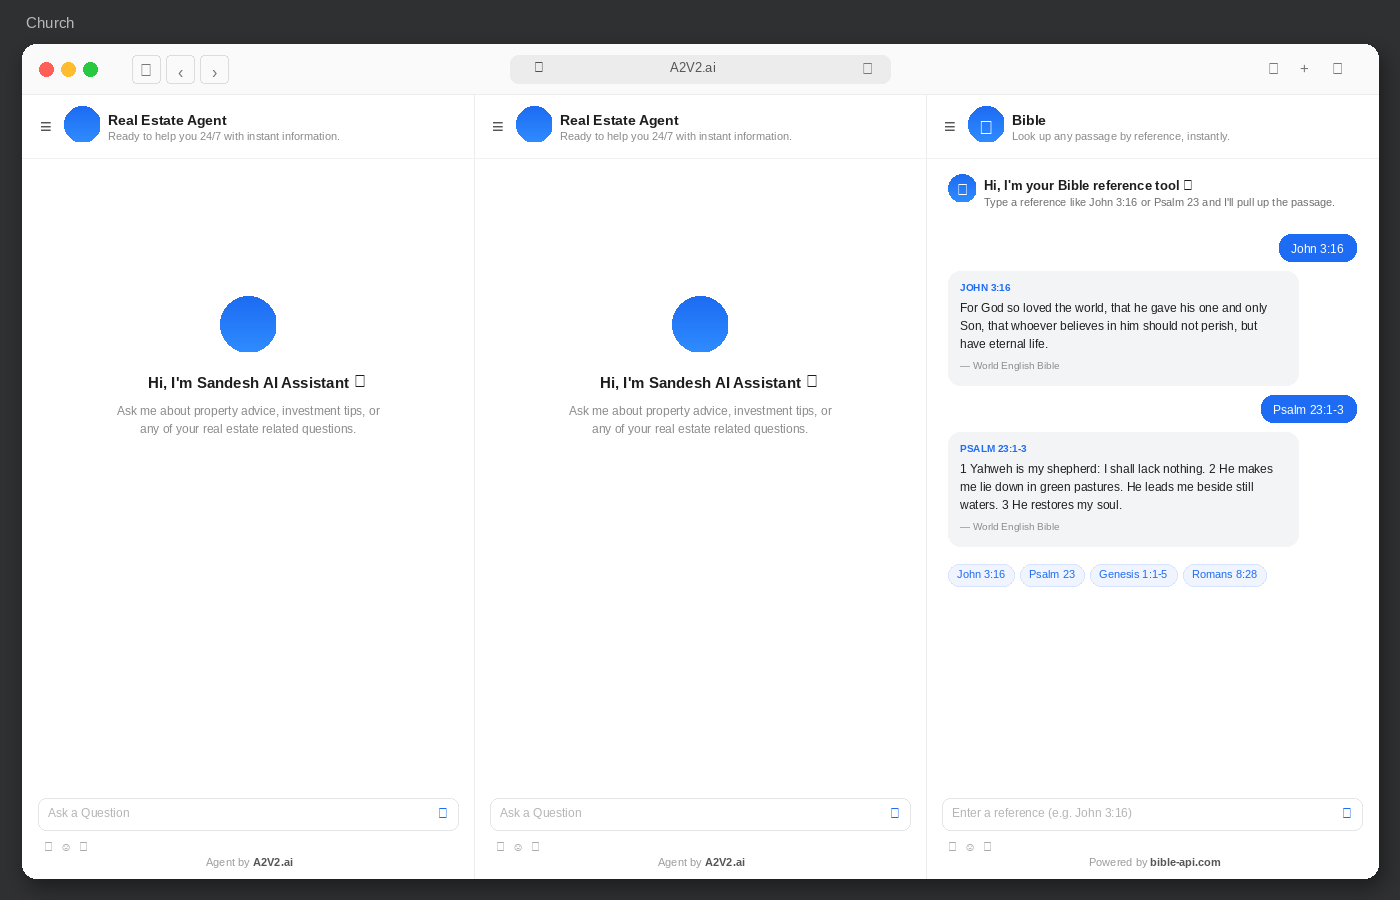
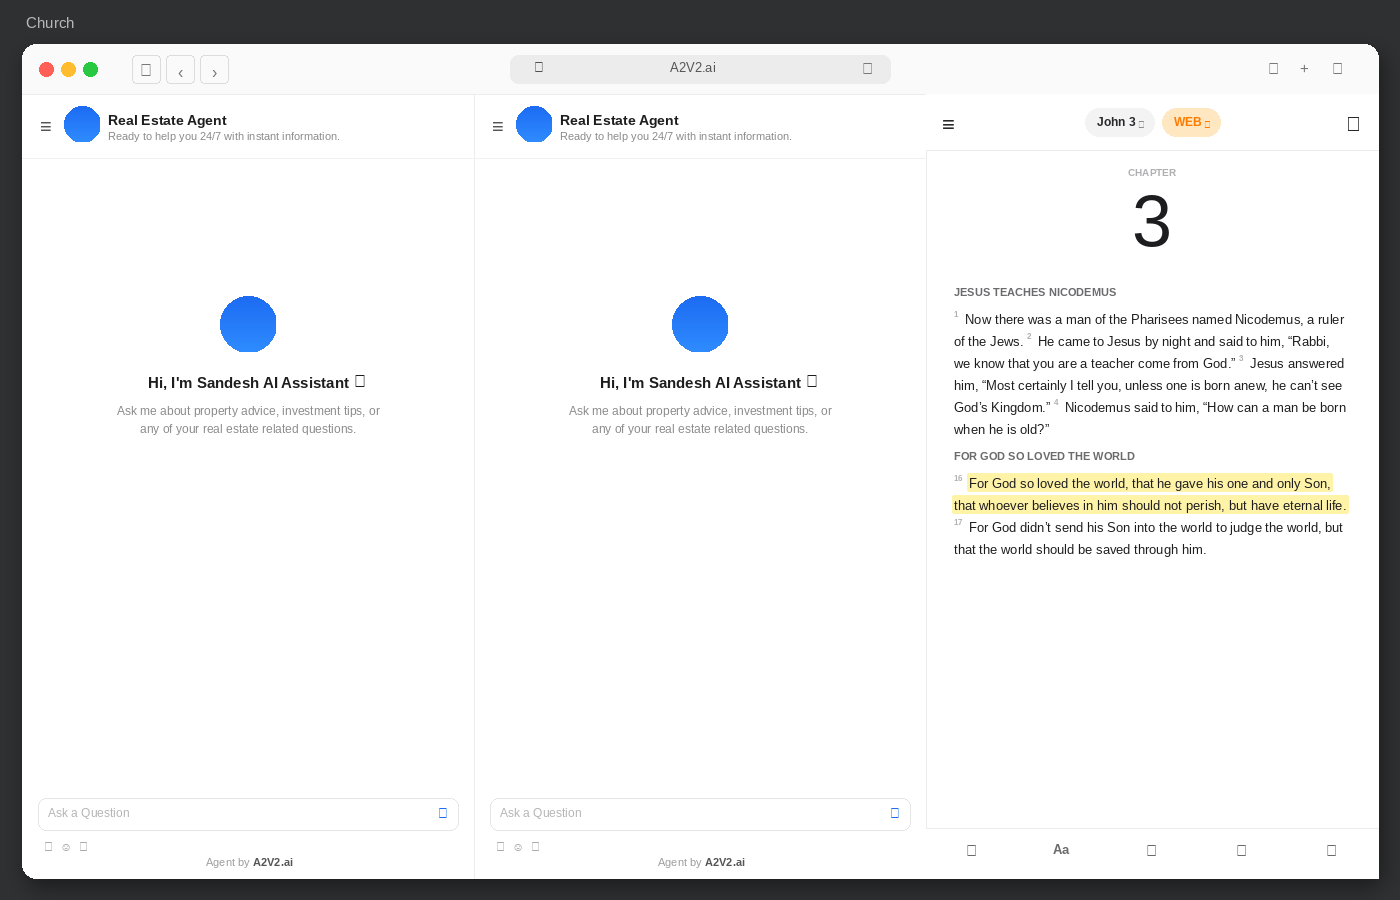
Redesign right panel as YouVersion-style Bible reader
Replace the chat interface with a reader view modeled on the You
Version Bible app: top bar with book/chapter and translation pills,
centered "CHAPTER 3" label with large numeral, section headings,
flowing verse paragraphs with superscript verse numbers, John 3:16
highlighted, and a bottom action bar (audio, font size, bookmark,
highlight, share). Updates both index.html and the preview.png
renderer.

https://claude.ai/code/session_019C1oisi2ynzs6zy4URi46w

diff --git a/index.html b/index.html
@@ -59,6 +59,24 @@ html, body { margin: 0; padding: 0; font-family: -apple-system, BlinkMacSystemFo
 .msg.bot .translation { display: block; margin-top: 6px; font-size: 11px; color: #888; }
 .msg.error { background: #fff1f0; color: #b42318; }
 .typing { align-self: flex-start; font-size: 12px; color: #888; font-style: italic; }
+.yv { background: #fff; font-family: Georgia, "Iowan Old Style", "Times New Roman", serif; }
+.yv-topbar { display: flex; align-items: center; justify-content: space-between; padding: 12px 14px; border-bottom: 1px solid #ececec; background: #fff; font-family: -apple-system, BlinkMacSystemFont, "Segoe UI", Roboto, sans-serif; }
+.yv-icon { background: transparent; border: 0; font-size: 18px; color: #1d1d1f; cursor: pointer; padding: 4px 8px; }
+.yv-pickers { display: flex; gap: 8px; }
+.yv-pick { background: #f3f3f4; border: 0; border-radius: 999px; padding: 6px 12px; font-size: 12px; font-weight: 700; color: #1d1d1f; cursor: pointer; display: inline-flex; align-items: center; gap: 4px; }
+.yv-pick.trans { background: #ffe7c2; color: #ff7a00; }
+.yv-pick .caret { font-size: 9px; opacity: 0.6; }
+.yv-reader { flex: 1; overflow-y: auto; padding: 18px 22px 14px; color: #1d1d1f; }
+.yv-chapter-label { font-family: -apple-system, sans-serif; font-size: 10px; letter-spacing: 0.18em; color: #b0b0b3; text-align: center; margin-top: 6px; }
+.yv-chapter-num { font-family: Georgia, serif; font-size: 64px; font-weight: 400; text-align: center; line-height: 1; margin: 4px 0 18px; color: #1d1d1f; }
+.yv-section { font-family: -apple-system, BlinkMacSystemFont, sans-serif; font-size: 12px; font-weight: 700; text-transform: uppercase; letter-spacing: 0.08em; color: #6b6b6e; margin: 18px 0 8px; }
+.yv-verses { font-family: Georgia, "Iowan Old Style", "Times New Roman", serif; font-size: 15px; line-height: 1.7; color: #1d1d1f; margin: 0; text-align: left; }
+.yv-verses .vn { font-family: -apple-system, sans-serif; font-size: 9px; font-weight: 700; color: #b0b0b3; vertical-align: super; margin: 0 3px 0 4px; letter-spacing: 0.04em; }
+.yv-verses .hl { background: #fff3a8; padding: 1px 2px; border-radius: 2px; }
+.yv-actionbar { display: flex; justify-content: space-around; align-items: center; padding: 10px 8px; border-top: 1px solid #ececec; background: #fff; font-family: -apple-system, BlinkMacSystemFont, sans-serif; }
+.yv-action { background: transparent; border: 0; font-size: 16px; color: #6b6b6e; cursor: pointer; width: 40px; height: 36px; border-radius: 8px; }
+.yv-action:hover { background: #f5f5f6; }
+.yv-action .aa { font-weight: 700; font-size: 14px; }
 @media (max-width: 900px) { .panels { grid-template-columns: 1fr; } .panel { border-right: 0; border-bottom: 1px solid #ececec; } }
     </style>
   </head>
@@ -144,69 +162,46 @@ html, body { margin: 0; padding: 0; font-family: -apple-system, BlinkMacSystemFo
           <div class="panel-foot">Agent by <span class="brand">A2V2.ai</span></div>
         </article>
 
-        <!-- Bible reference tool (functional) -->
-        <article class="panel bible" aria-label="Bible Reference Tool">
-          <div class="panel-head">
-            <button class="menu" aria-label="menu">≡</button>
-            <div class="avatar bible-avatar">✝</div>
-            <div class="panel-title">
-              <div class="title">Bible</div>
-              <div class="subtitle">Look up any passage by reference, instantly.</div>
+        <!-- YouVersion-style Bible reader -->
+        <article class="panel yv" aria-label="Bible Reader">
+          <div class="yv-topbar">
+            <button class="yv-icon" aria-label="menu">≡</button>
+            <div class="yv-pickers">
+              <button class="yv-pick book">John 3 <span class="caret">▾</span></button>
+              <button class="yv-pick trans">WEB <span class="caret">▾</span></button>
             </div>
+            <button class="yv-icon" aria-label="search">⌕</button>
           </div>
 
-          <div class="panel-body" id="bible-body">
-            <div class="messages">
-              <div class="msg bot intro">
-                <div class="avatar bible-avatar">✝</div>
-                <div>
-                  <strong>Hi, I'm your Bible reference tool 📖</strong><br />
-                  Type a reference like <em>John 3:16</em> or <em>Psalm 23</em> and I'll pull up the passage.
-                </div>
-              </div>
+          <div class="yv-reader">
+            <div class="yv-chapter-label">CHAPTER</div>
+            <div class="yv-chapter-num">3</div>
 
-              <div class="msg user">John 3:16</div>
+            <h3 class="yv-section">Jesus Teaches Nicodemus</h3>
+            <p class="yv-verses">
+              <span class="vn">1</span>Now there was a man of the Pharisees named Nicodemus, a ruler of the Jews.
+              <span class="vn">2</span>He came to Jesus by night and said to him, &ldquo;Rabbi, we know that you are a teacher come from God, for no one can do these signs that you do unless God is with him.&rdquo;
+              <span class="vn">3</span>Jesus answered him, &ldquo;Most certainly I tell you, unless one is born anew, he can&rsquo;t see God&rsquo;s Kingdom.&rdquo;
+              <span class="vn">4</span>Nicodemus said to him, &ldquo;How can a man be born when he is old? Can he enter a second time into his mother&rsquo;s womb and be born?&rdquo;
+              <span class="vn">5</span>Jesus answered, &ldquo;Most certainly I tell you, unless one is born of water and spirit, he can&rsquo;t enter into God&rsquo;s Kingdom.
+              <span class="vn">6</span>That which is born of the flesh is flesh. That which is born of the Spirit is spirit.
+              <span class="vn">7</span>Don&rsquo;t marvel that I said to you, &lsquo;You must be born anew.&rsquo;&rdquo;
+            </p>
 
-              <div class="msg bot">
-                <span class="ref">John 3:16</span>
-                For God so loved the world, that he gave his one and only Son, that whoever believes in him should not perish, but have eternal life.
-                <span class="translation">— World English Bible</span>
-              </div>
-
-              <div class="msg user">Psalm 23:1-3</div>
-
-              <div class="msg bot">
-                <span class="ref">Psalm 23:1-3</span>
-                <span class="verse-num">1</span>Yahweh is my shepherd: I shall lack nothing.
-                <span class="verse-num">2</span>He makes me lie down in green pastures. He leads me beside still waters.
-                <span class="verse-num">3</span>He restores my soul. He guides me in the paths of righteousness for his name's sake.
-                <span class="translation">— World English Bible</span>
-              </div>
-
-              <div class="quick-refs">
-                <button class="chip" type="button">John 3:16</button>
-                <button class="chip" type="button">Psalm 23</button>
-                <button class="chip" type="button">Genesis 1:1-5</button>
-                <button class="chip" type="button">Romans 8:28</button>
-                <button class="chip" type="button">Proverbs 3:5-6</button>
-              </div>
-            </div>
+            <h3 class="yv-section">For God So Loved the World</h3>
+            <p class="yv-verses">
+              <span class="vn">16</span><span class="hl">For God so loved the world, that he gave his one and only Son, that whoever believes in him should not perish, but have eternal life.</span>
+              <span class="vn">17</span>For God didn&rsquo;t send his Son into the world to judge the world, but that the world should be saved through him.
+            </p>
           </div>
 
-          <div class="panel-input">
-            <div class="input-row">
-              <input
-                type="text"
-                placeholder="Enter a reference (e.g. John 3:16)"
-                autocomplete="off"
-              />
-              <button class="send" type="button" aria-label="send">➤</button>
-            </div>
-            <div class="input-tools">
-              <span>🔗</span><span>☺</span><span>🎤</span>
-            </div>
+          <div class="yv-actionbar">
+            <button class="yv-action" aria-label="audio">▶</button>
+            <button class="yv-action" aria-label="font size"><span class="aa">Aa</span></button>
+            <button class="yv-action" aria-label="bookmark">🔖</button>
+            <button class="yv-action" aria-label="highlight">✎</button>
+            <button class="yv-action" aria-label="share">↗</button>
           </div>
-          <div class="panel-foot">Powered by <span class="brand">bible-api.com</span></div>
         </article>
       </section>
     </main>

diff --git a/render.py b/render.py
@@ -163,21 +163,61 @@ for i in range(2):
     draw_input(px, "Ask a Question")
     draw_foot(px, "Agent by", "A2V2.ai")
 
-# Panel 3: Bible (chat state)
+# Panel 3: YouVersion-style Bible reader
 px = panel_x[2]
-draw_panel_head(px, "Bible", "Look up any passage by reference, instantly.", "✝")
 
-cy = PANEL_TOP + 84
-left_pad = px + 22
-right_pad = px + PW - 22
-chat_w = PW - 44
+# Top bar (replaces panel-head)
+TOP_H = 56
+d.rectangle((px, PANEL_TOP, px + PW, PANEL_TOP + TOP_H), fill=WHITE)
+d.line((px, PANEL_TOP + TOP_H, px + PW, PANEL_TOP + TOP_H), fill=LIGHT, width=1)
 
-# Intro row
-draw_avatar(left_pad + 14, cy + 10, 14, "✝")
-d.text((left_pad + 36, cy), "Hi, I'm your Bible reference tool 📖", fill=TEXT, font=f(13, bold=True))
-intro = "Type a reference like John 3:16 or Psalm 23 and I'll pull up the passage."
-d.text((left_pad + 36, cy + 18), intro, fill=(110, 110, 110), font=f(11))
-cy += 56
+# hamburger
+d.text((px + 16, PANEL_TOP + 18), "≡", fill=(40, 40, 42), font=f(22))
+
+# pickers (centered)
+pick_y = PANEL_TOP + 14
+pick_book_text = "John 3"
+pick_trans_text = "WEB"
+ft_pick = f(12, bold=True)
+bb = d.textbbox((0, 0), pick_book_text, font=ft_pick)
+book_w = bb[2] - bb[0] + 30
+bb = d.textbbox((0, 0), pick_trans_text, font=ft_pick)
+trans_w = bb[2] - bb[0] + 30
+total = book_w + trans_w + 8
+start_x = px + PW // 2 - total // 2
+# book pill (gray)
+d.rounded_rectangle((start_x, pick_y, start_x + book_w, pick_y + 28), 14, fill=(243, 243, 244))
+d.text((start_x + 12, pick_y + 7), pick_book_text, fill=(40, 40, 42), font=ft_pick)
+d.text((start_x + book_w - 16, pick_y + 11), "▾", fill=(140, 140, 140), font=f(9, bold=True))
+# translation pill (orange)
+tx = start_x + book_w + 8
+d.rounded_rectangle((tx, pick_y, tx + trans_w, pick_y + 28), 14, fill=(255, 231, 194))
+d.text((tx + 12, pick_y + 7), pick_trans_text, fill=(255, 122, 0), font=ft_pick)
+d.text((tx + trans_w - 16, pick_y + 11), "▾", fill=(255, 122, 0), font=f(9, bold=True))
+
+# search icon
+d.text((px + PW - 32, PANEL_TOP + 18), "⌕", fill=(40, 40, 42), font=f(20))
+
+# Reader area
+ACTION_H = 50
+reader_top = PANEL_TOP + TOP_H
+reader_bottom = PANEL_BOTTOM - ACTION_H
+left_pad = px + 28
+right_pad = px + PW - 28
+text_w = PW - 56
+
+# CHAPTER label
+ft_lbl = f(10, bold=True)
+lbl = "CHAPTER"
+bb = d.textbbox((0, 0), lbl, font=ft_lbl)
+d.text((px + PW // 2 - (bb[2] - bb[0]) // 2, reader_top + 16), lbl, fill=(176, 176, 179), font=ft_lbl)
+
+# Big chapter number
+ft_num = f(72)
+nbb = d.textbbox((0, 0), "3", font=ft_num)
+d.text((px + PW // 2 - (nbb[2] - nbb[0]) // 2, reader_top + 30), "3", fill=TEXT, font=ft_num)
+
+cy = reader_top + 130
 
 
 def wrap(text, font, max_w):
@@ -197,67 +237,114 @@ def wrap(text, font, max_w):
     return lines
 
 
-def user_bubble(text):
+def section(title):
     global cy
-    ft = f(12)
-    bb = d.textbbox((0, 0), text, font=ft)
-    bw = bb[2] - bb[0] + 24
-    bh = bb[3] - bb[1] + 18
-    bx2 = right_pad
-    bx1 = bx2 - bw
-    d.rounded_rectangle((bx1, cy, bx2, cy + bh), 12, fill=BLUE)
-    d.text((bx1 + 12, cy + 8), text, fill=WHITE, font=ft)
-    cy += bh + 10
+    ft = f(11, bold=True)
+    cy += 6
+    d.text((left_pad, cy), title.upper(), fill=(107, 107, 110), font=ft)
+    cy += 22
 
 
-def bot_bubble(ref, body, translation, verses=False):
+# Render verse paragraph: tokens are (kind, content). We layout in flowing line.
+def render_paragraph(verses, highlight_set=None):
+    """verses: list of (verse_num, text). Optionally highlight a set of verse numbers."""
     global cy
-    ft = f(12)
-    ftref = f(10, bold=True)
-    max_w = int(chat_w * 0.86) - 24
-    lines = wrap(body, ft, max_w)
-    bw = max_w + 24
-    bh = 12 + 18 + len(lines) * 18 + 6 + 16 + 8
-    d.rounded_rectangle((left_pad, cy, left_pad + bw, cy + bh), 12, fill=BUBBLE_BG)
-    d.text((left_pad + 12, cy + 10), ref.upper(), fill=BLUE, font=ftref)
-    yy = cy + 30
-    for ln in lines:
-        d.text((left_pad + 12, yy), ln, fill=TEXT, font=ft)
-        yy += 18
-    d.text((left_pad + 12, yy + 4), "— " + translation, fill=(140, 140, 140), font=f(10))
-    cy += bh + 10
+    if highlight_set is None:
+        highlight_set = set()
+    ft_text = f(13)
+    ft_vn = f(8, bold=True)
+    line_h = 22
+    # tokenize
+    tokens = []
+    for vn, text in verses:
+        tokens.append(("vn", str(vn), vn))
+        for word in text.split(" "):
+            tokens.append(("word", word, vn))
+
+    # layout
+    x = left_pad
+    line_tokens = []  # list of (type, content, vnum, w, x_start)
+
+    def flush_line(last=False):
+        nonlocal x, line_tokens
+        global cy
+        # draw highlight backgrounds first per verse run
+        i = 0
+        while i < len(line_tokens):
+            t, c, vn, w, sx = line_tokens[i]
+            if vn in highlight_set and t == "word":
+                # find run end
+                j = i
+                run_x1 = sx
+                run_x2 = sx + w
+                while j + 1 < len(line_tokens) and line_tokens[j + 1][2] in highlight_set and line_tokens[j + 1][0] == "word":
+                    j += 1
+                    run_x2 = line_tokens[j][4] + line_tokens[j][3]
+                d.rounded_rectangle((run_x1 - 2, cy + 1, run_x2 + 2, cy + line_h - 3), 2, fill=(255, 243, 168))
+                i = j + 1
+            else:
+                i += 1
+        # draw glyphs
+        for t, c, vn, w, sx in line_tokens:
+            if t == "vn":
+                d.text((sx, cy + 1), c, fill=(176, 176, 179), font=ft_vn)
+            else:
+                d.text((sx, cy + 4), c, fill=TEXT, font=ft_text)
+        cy += line_h
+        x = left_pad
+        line_tokens = []
+
+    for tok in tokens:
+        kind, content, vn = tok
+        if kind == "vn":
+            ft = ft_vn
+            extra = " "
+            tw = d.textbbox((0, 0), content, font=ft)[2] + 6
+        else:
+            ft = ft_text
+            tw = d.textbbox((0, 0), content + " ", font=ft)[2]
+        if x + tw > right_pad and line_tokens:
+            flush_line()
+        if kind == "vn":
+            line_tokens.append(("vn", content, vn, tw - 4, x))
+        else:
+            line_tokens.append(("word", content, vn, tw - 4, x))
+        x += tw
+    if line_tokens:
+        flush_line(last=True)
+    cy += 4
 
 
-user_bubble("John 3:16")
-bot_bubble(
-    "John 3:16",
-    "For God so loved the world, that he gave his one and only Son, that whoever believes in him should not perish, but have eternal life.",
-    "World English Bible",
+# Section 1
+section("Jesus Teaches Nicodemus")
+render_paragraph([
+    (1, "Now there was a man of the Pharisees named Nicodemus, a ruler of the Jews."),
+    (2, "He came to Jesus by night and said to him, “Rabbi, we know that you are a teacher come from God.”"),
+    (3, "Jesus answered him, “Most certainly I tell you, unless one is born anew, he can’t see God’s Kingdom.”"),
+    (4, "Nicodemus said to him, “How can a man be born when he is old?”"),
+])
+
+# Section 2
+section("For God So Loved the World")
+render_paragraph(
+    [
+        (16, "For God so loved the world, that he gave his one and only Son, that whoever believes in him should not perish, but have eternal life."),
+        (17, "For God didn’t send his Son into the world to judge the world, but that the world should be saved through him."),
+    ],
+    highlight_set={16},
 )
-user_bubble("Psalm 23:1-3")
-bot_bubble(
-    "Psalm 23:1-3",
-    "1 Yahweh is my shepherd: I shall lack nothing. 2 He makes me lie down in green pastures. He leads me beside still waters. 3 He restores my soul.",
-    "World English Bible",
-)
 
-# Quick chips
-chips = ["John 3:16", "Psalm 23", "Genesis 1:1-5", "Romans 8:28"]
-chip_y = cy + 8
-chip_x = left_pad
-ft = f(11)
-for c in chips:
-    bb = d.textbbox((0, 0), c, font=ft)
-    cw = bb[2] - bb[0] + 18
-    if chip_x + cw > right_pad:
-        chip_x = left_pad
-        chip_y += 26
-    d.rounded_rectangle((chip_x, chip_y, chip_x + cw, chip_y + 22), 11, fill=CHIP_BG, outline=CHIP_BD, width=1)
-    d.text((chip_x + 9, chip_y + 4), c, fill=BLUE, font=ft)
-    chip_x += cw + 6
-
-draw_input(px, "Enter a reference (e.g. John 3:16)")
-draw_foot(px, "Powered by", "bible-api.com")
+# Action bar at bottom
+ab_y = reader_bottom
+d.rectangle((px, ab_y, px + PW, ab_y + ACTION_H), fill=WHITE)
+d.line((px, ab_y, px + PW, ab_y), fill=LIGHT, width=1)
+actions = ["▶", "Aa", "🔖", "✎", "↗"]
+slot = PW // len(actions)
+for i, a in enumerate(actions):
+    cx = px + slot * i + slot // 2
+    ft_a = f(13, bold=True) if a == "Aa" else f(15)
+    bb = d.textbbox((0, 0), a, font=ft_a)
+    d.text((cx - (bb[2] - bb[0]) // 2, ab_y + 14), a, fill=(107, 107, 110), font=ft_a)
 
 img.save("/home/user/churches/preview.png")
 print("saved preview.png", img.size)
